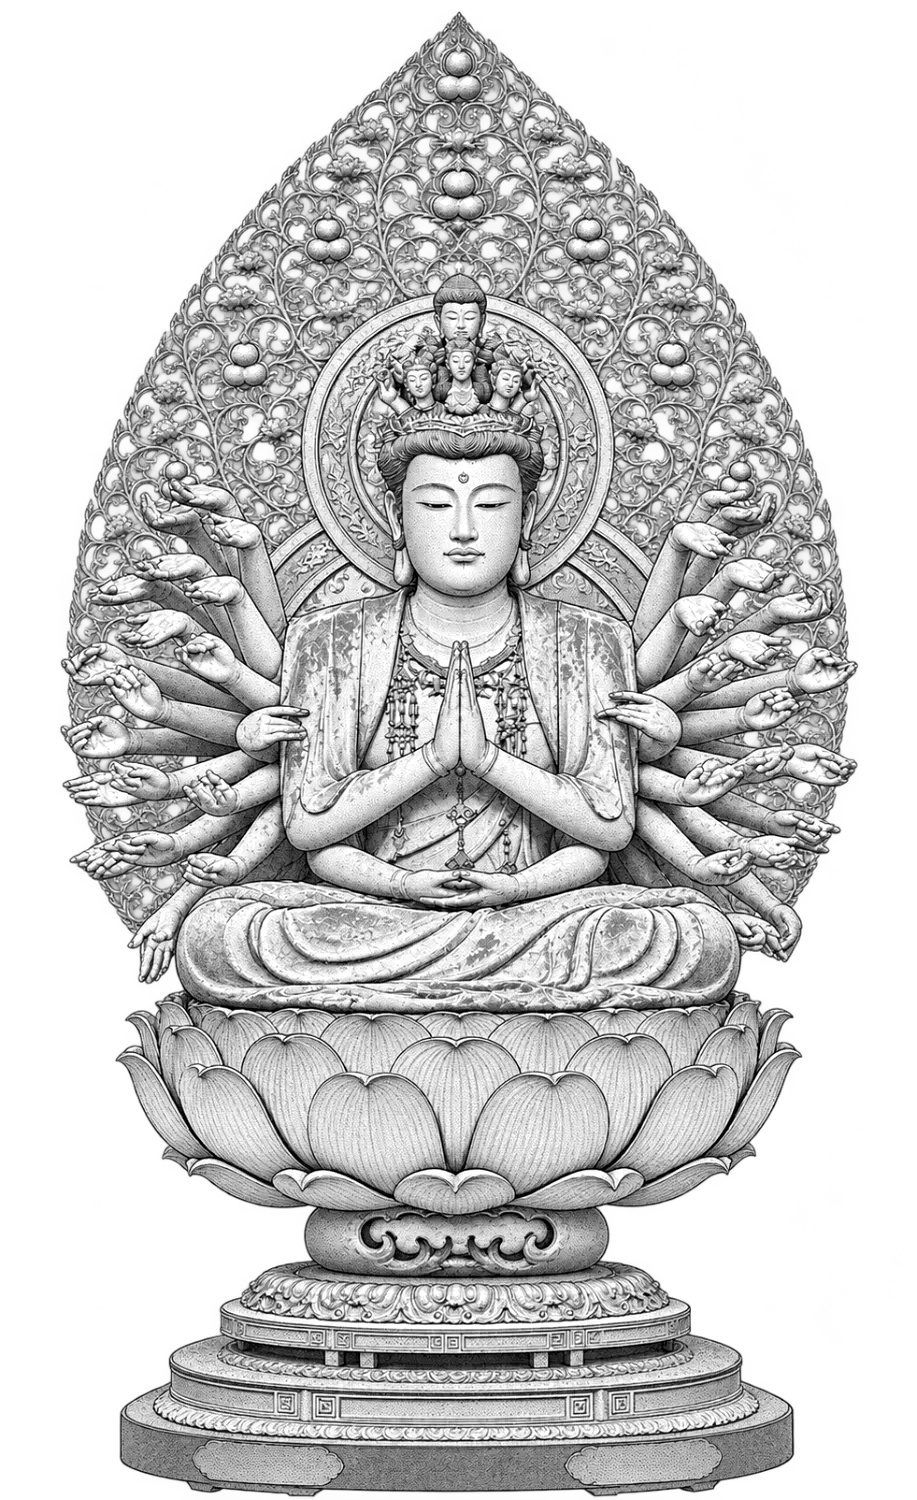
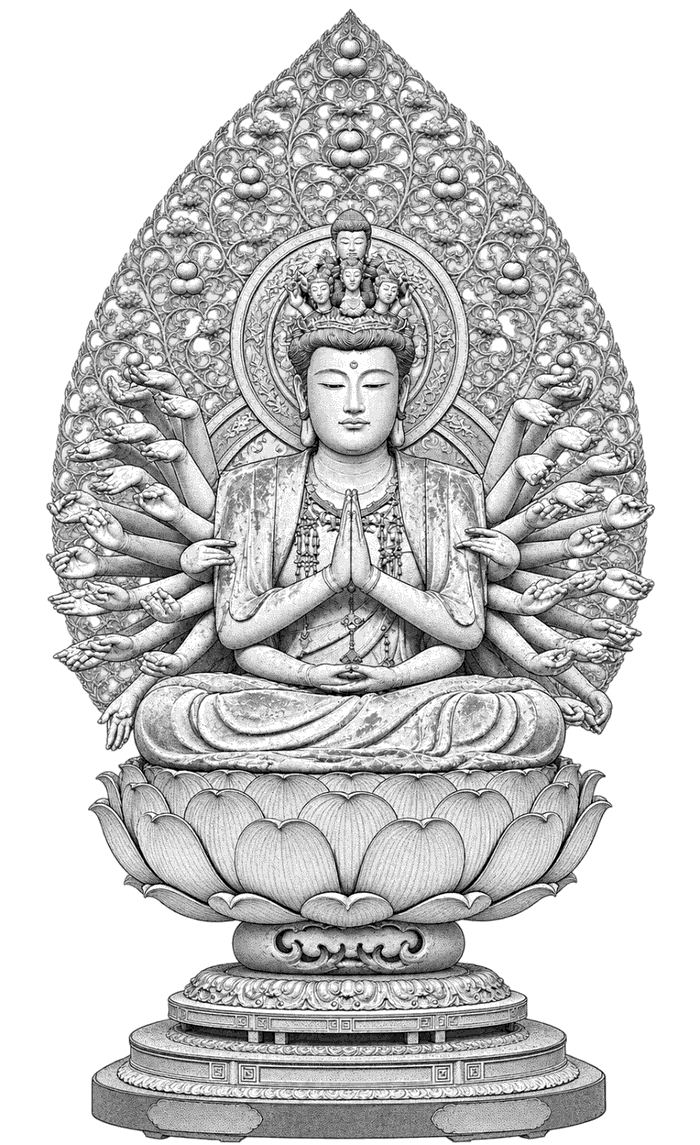
Mobile : images décoratives recompressées (dojo 401→164 Ko, Kannon 696→175 Ko), connexion anticipée aux polices
Claude-Session: https://claude.ai/code/session_017djE2WdDw37G5h1wfdbW9F

diff --git a/en/index.html b/en/index.html
@@ -23,6 +23,8 @@
 <meta name="twitter:card" content="summary_large_image">
 <link rel="icon" href="../hannya-shingyo/favicon.svg" type="image/svg+xml">
 <link rel="alternate icon" href="../hannya-shingyo/hannya.ico">
+<link rel="preconnect" href="https://fonts.googleapis.com">
+<link rel="preconnect" href="https://fonts.gstatic.com" crossorigin>
 <link rel="stylesheet" href="https://fonts.googleapis.com/css2?family=Shippori+Mincho:wght@500;700&family=Zen+Kaku+Gothic+New:wght@400;500;700&display=swap">
 <link rel="stylesheet" href="../site.css">
 </head>

diff --git a/index.html b/index.html
@@ -23,6 +23,8 @@
 <meta name="twitter:card" content="summary_large_image">
 <link rel="icon" href="hannya-shingyo/favicon.svg" type="image/svg+xml">
 <link rel="alternate icon" href="hannya-shingyo/hannya.ico">
+<link rel="preconnect" href="https://fonts.googleapis.com">
+<link rel="preconnect" href="https://fonts.gstatic.com" crossorigin>
 <link rel="stylesheet" href="https://fonts.googleapis.com/css2?family=Shippori+Mincho:wght@500;700&family=Zen+Kaku+Gothic+New:wght@400;500;700&display=swap">
 <link rel="stylesheet" href="site.css">
 </head>

diff --git a/hannya-shingyo/hannya-shingyo.html b/hannya-shingyo/hannya-shingyo.html
@@ -18,6 +18,7 @@
 <meta name="twitter:card" content="summary_large_image">
 <link rel="icon" href="favicon.svg" type="image/svg+xml">
 <link rel="preconnect" href="https://fonts.googleapis.com">
+<link rel="preconnect" href="https://fonts.gstatic.com" crossorigin>
 <link rel="stylesheet" href="https://fonts.googleapis.com/css2?family=Shippori+Mincho:wght@500;700&family=Zen+Kaku+Gothic+New:wght@400;500;700&display=swap">
 <style>
 /* Une colonne de récitation : barre d'outils collante, puis les lignes du sutra syllabe par syllabe */

diff --git a/hannya-shingyo/fr/index.html b/hannya-shingyo/fr/index.html
@@ -23,6 +23,8 @@
 <meta name="twitter:card" content="summary_large_image">
 <link rel="icon" href="../favicon.svg" type="image/svg+xml">
 <link rel="alternate icon" href="../hannya.ico">
+<link rel="preconnect" href="https://fonts.googleapis.com">
+<link rel="preconnect" href="https://fonts.gstatic.com" crossorigin>
 <link rel="stylesheet" href="https://fonts.googleapis.com/css2?family=Shippori+Mincho:wght@500;700&family=Zen+Kaku+Gothic+New:wght@400;500;700&display=swap">
 <link rel="stylesheet" href="../accueil.css">
 </head>

diff --git a/hannya-shingyo/index.html b/hannya-shingyo/index.html
@@ -23,6 +23,8 @@
 <meta name="twitter:card" content="summary_large_image">
 <link rel="icon" href="favicon.svg" type="image/svg+xml">
 <link rel="alternate icon" href="hannya.ico">
+<link rel="preconnect" href="https://fonts.googleapis.com">
+<link rel="preconnect" href="https://fonts.gstatic.com" crossorigin>
 <link rel="stylesheet" href="https://fonts.googleapis.com/css2?family=Shippori+Mincho:wght@500;700&family=Zen+Kaku+Gothic+New:wght@400;500;700&display=swap">
 <link rel="stylesheet" href="accueil.css">
 </head>

diff --git a/outils/accueil-site.py b/outils/accueil-site.py
@@ -114,6 +114,8 @@ def page(t):
 <meta name="twitter:card" content="summary_large_image">
 <link rel="icon" href="{r}hannya-shingyo/favicon.svg" type="image/svg+xml">
 <link rel="alternate icon" href="{r}hannya-shingyo/hannya.ico">
+<link rel="preconnect" href="https://fonts.googleapis.com">
+<link rel="preconnect" href="https://fonts.gstatic.com" crossorigin>
 <link rel="stylesheet" href="https://fonts.googleapis.com/css2?family=Shippori+Mincho:wght@500;700&family=Zen+Kaku+Gothic+New:wght@400;500;700&display=swap">
 <link rel="stylesheet" href="{r}site.css">
 </head>
